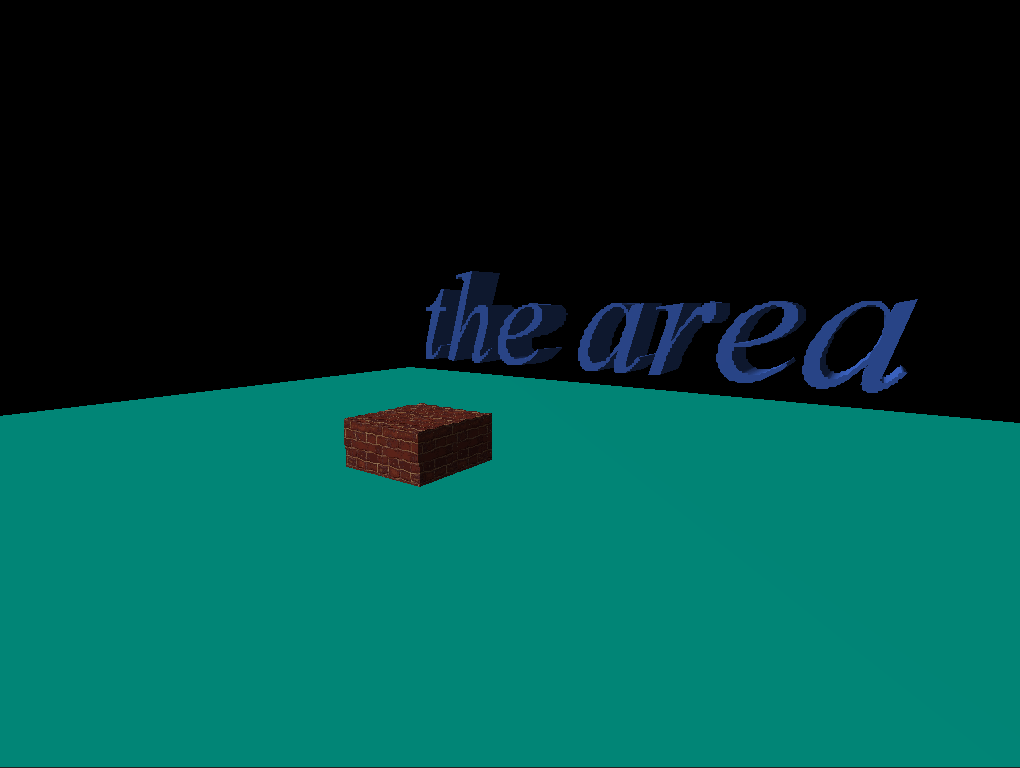
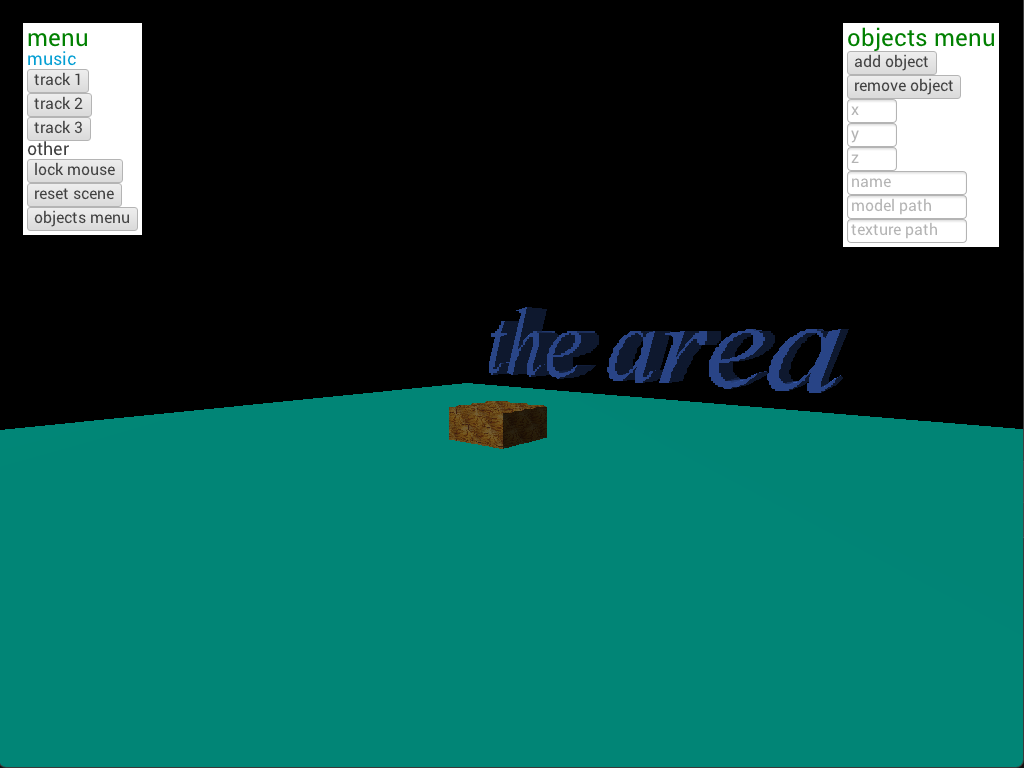
Add new objects menu

Changed region(s): [[0.0, 0.3438, 1.0, 0.6562], [0.8206, 0.0312, 1.0, 0.3438], [0.0, 0.0312, 0.152, 0.3125]]

diff --git a/src/ui/ObjectInterface.java b/src/ui/ObjectInterface.java
@@ -1,33 +1,117 @@
 package ui;
 
+import audio.Sound;
 import init.Main;
 import lwjgui.geometry.Insets;
 import lwjgui.geometry.Pos;
 import lwjgui.paint.Color;
 import lwjgui.scene.Window;
 import lwjgui.scene.WindowManager;
-import lwjgui.scene.control.Button;
-import lwjgui.scene.control.Label;
-import lwjgui.scene.control.TextField;
+import lwjgui.scene.control.*;
 import lwjgui.scene.layout.BorderPane;
 import lwjgui.scene.layout.VBox;
+import objects.Object;
 import objects.ObjectGetter;
+import org.lwjgl.glfw.GLFW;
 import renderer.DisplayManager;
 import scenes.SceneManager;
 
 import java.util.ArrayList;
 import java.util.List;
 
-public class ObjectInterface extends UIObject{
+public class ObjectInterface {
 
+    public VBox menuBox = new VBox();
+    Window window;
+    boolean active = false;
 
-    @Override
     public void create() {
+        BorderPane root = new BorderPane();
+        root.setPadding(new Insets(24));
+        root.setBackgroundLegacy(null);
 
+        Label menuLabel = new Label("objects menu");
+        menuLabel.setFontSize(24);
+        menuLabel.setTextFill(Color.GREEN);
+        menuLabel.setAlignment(Pos.TOP_RIGHT);
+
+        Button addb = new Button("add object");
+        Button removeb = new Button("remove object");
+
+        TextField x = new TextField();
+        x.setPrompt("x");
+        x.setMaxSize(50,50);
+        TextField y = new TextField();
+        y.setPrompt("y");
+        y.setMaxSize(50,50);
+        TextField z = new TextField();
+        z.setPrompt("z");
+        z.setMaxSize(50,50);
+        TextField name = new TextField();
+        name.setPrompt("name");
+        TextField model = new TextField();
+        model.setPrompt("model path");
+        TextField texture = new TextField();
+        texture.setPrompt("texture path");
+
+        //list of all objects in SceneManager.getObjects()
+        List<String> objectNames = new ArrayList<String>();
+        for(Object object : SceneManager.getObjectsArray()) objectNames.add(object.getName());
+        TreeView<String> objectList = new TreeView<String>();
+        for(String objectName : objectNames) {
+            objectList.getChildren().add(new Label(objectName));
+        }
+
+        addb.setOnAction((event) -> {
+            try {
+                SceneManager.addObject(ObjectGetter.getModel(model.getText(), texture.getText(), Float.parseFloat(x.getText()), Float.parseFloat(y.getText()), Float.parseFloat(z.getText()), 1f, name.getText()));
+                objectNames.clear();
+                for(Object object : SceneManager.getObjectsArray()) objectNames.add(object.getName());
+            } catch (Exception e) {
+                System.out.println("error adding object");
+                e.printStackTrace();
+            }
+            for(String objectName : objectNames) {
+                objectList.getChildren().add(new TreeItem<String>(objectName));
+            }
+        });
+
+        {
+            menuBox.setAlignment(Pos.TOP_LEFT);
+            menuBox.setPadding(new Insets(4, 4, 4, 4));
+            menuBox.setBackgroundLegacy(Color.WHITE);
+
+            menuBox.getChildren().add(menuLabel);
+            menuBox.getChildren().add(addb);
+            menuBox.getChildren().add(removeb);
+            menuBox.getChildren().add(x);
+            menuBox.getChildren().add(y);
+            menuBox.getChildren().add(z);
+            menuBox.getChildren().add(name);
+            menuBox.getChildren().add(model);
+            menuBox.getChildren().add(texture);
+            //menuBox.getChildren().add(objectList);
+
+            root.setAlignment(Pos.TOP_RIGHT);
+            root.setRight(menuBox);
+
+            window = WindowManager.generateWindow(DisplayManager.win);
+            /* this line will error if you aren't using
+            this specific version of nanovg for some reason */
+            window.setWindowAutoClear(false);
+            window.show();
+
+            window.setScene(new lwjgui.scene.Scene(root, Main.width, Main.height));
+
+        }
     }
 
-    @Override
+    public void toggleMenu() {
+        active = !active;
+    }
+
     public void update() {
-
+        if(active) window.render();
     }
+
 }

diff --git a/src/ui/TestSceneSidebar.java b/src/ui/TestSceneSidebar.java
@@ -1,6 +1,7 @@
 package ui;
 
 import audio.Sound;
+import com.sun.istack.internal.NotNull;
 import init.Main;
 import lwjgui.geometry.Insets;
 import lwjgui.geometry.Pos;
@@ -18,13 +19,13 @@ import renderer.DisplayManager;
 import scenes.Scene;
 import scenes.SceneManager;
 
-public class TestSceneSidebar extends UIObject{
+public class TestSceneSidebar {
 
-    Window window;
     Button resetb = new Button("reset scene");
     public VBox menuBox = new VBox();
+    Window window;
+    Button objMenu = new Button("objects menu");
 
-    @Override
     public void create() {
         BorderPane root = new BorderPane();
         root.setPadding(new Insets(24));
@@ -38,9 +39,9 @@ public class TestSceneSidebar extends UIObject{
         Label musicLabel = new Label("music");
         musicLabel.setTextFill(Color.AQUA);
         Label otherLabel = new Label("other");
-        Button ebs = new Button("earthbound shop");
-        Button ebg = new Button("earthbound guardian");
-        Button ebn = new Button("earthbound night");
+        Button ebs = new Button("track 1");
+        Button ebg = new Button("track 2");
+        Button ebn = new Button("track 3");
         Button lockb = new Button("lock mouse");
 
         ebs.setOnAction((event) -> {
@@ -72,6 +73,7 @@ public class TestSceneSidebar extends UIObject{
             menuBox.getChildren().add(otherLabel);
             menuBox.getChildren().add(lockb);
             menuBox.getChildren().add(resetb);
+            menuBox.getChildren().add(objMenu);
 
             root.setAlignment(Pos.TOP_LEFT);
             root.setLeft(menuBox);
@@ -81,9 +83,9 @@ public class TestSceneSidebar extends UIObject{
         /* this line will error if you aren't using
         this specific version of nanovg for some reason */
         window.setWindowAutoClear(false);
+        window.show();
 
         window.setScene(new lwjgui.scene.Scene(root, Main.width, Main.height));
-        window.show();
     }
 
     public void enableReset(Scene scene) {
@@ -92,7 +94,12 @@ public class TestSceneSidebar extends UIObject{
         });
     }
 
-    @Override
+    public void enableObjMenu(ObjectInterface objInterface) {
+        objMenu.setOnAction((event) -> {
+            objInterface.toggleMenu();
+        });
+    }
+
     public void update() {
         window.render();
     }

diff --git a/src/scenes/TestScene.java b/src/scenes/TestScene.java
@@ -37,6 +37,8 @@ public class TestScene extends Scene{
     TestSceneSidebar sidebar = new TestSceneSidebar();
     ObjectInterface objectInterface = new ObjectInterface();
 
+    Window window;
+
     boolean inputMenu = false;
 
 
@@ -44,6 +46,8 @@ public class TestScene extends Scene{
     public void start() {
 
         map = ObjectGetter.getModel("res/mdl/oldScene1/default.obj" , "res/mdl/oldScene1/default.png", 0, 0, 0, 2f, new String("map"));
+        Object cube = ObjectGetter.getModel("res/mdl/brickCube.obj", "res/bitmap/wood.png", 0, 0, 0, 1f, new String("cube"));
+        SceneManager.addObject(cube);
         light = new Light(new Vector3f(2000,2000,2000), new Vector3f(1,1,1));
         player = new Player();
         camera = new Camera();
@@ -53,6 +57,7 @@ public class TestScene extends Scene{
 
         createUI();
         sidebar.enableReset(new TestScene());
+        sidebar.enableObjMenu(objectInterface);
 
         loading = false;
 

diff --git a/src/objects/Object.java b/src/objects/Object.java
@@ -13,7 +13,7 @@ public class Object {
     private Vector3f position;
     private float rotX, rotY, rotZ;
     private float scale;
-    public String name;
+    private String name;
 
     public Object(TexturedModel model, Vector3f position, float rotX, float rotY, float rotZ, float scale, String name) {
         this.model = model;
@@ -92,6 +92,10 @@ public class Object {
 
     public void setScale(float scale) {
         this.scale = scale;
+    }
+
+    public String getName() {
+        return name;
     }
 
 }

diff --git a/src/scenes/SceneManager.java b/src/scenes/SceneManager.java
@@ -106,12 +106,6 @@ public class SceneManager {
         return objects;
     }
 
-    public static Window getSceneWindow() {
-        if(currentScene.window != null)
-            return currentScene.window;
-        return null;
-    }
-
     public static void dispose() {
 
         if(currentScene != null) currentScene.dispose();

diff --git a/src/scenes/Scene.java b/src/scenes/Scene.java
@@ -14,7 +14,6 @@ public abstract class Scene {
     public Camera camera;
     public boolean loading = true;
     public boolean renderable = true;
-    public Window window;
     public abstract void start();
     public abstract void update();
     public abstract void dispose();
